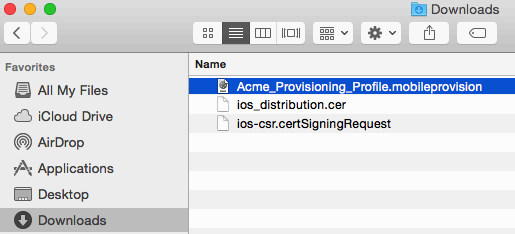
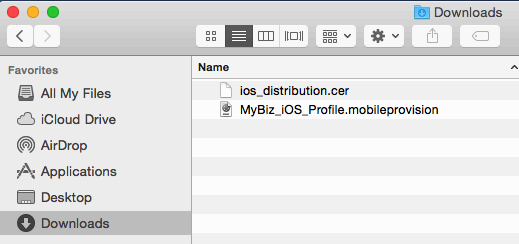
add updated images

diff --git a/admin_manual/enterprise_ios_app/publishing_ios_app_5.rst b/admin_manual/enterprise_ios_app/publishing_ios_app_5.rst
@@ -54,7 +54,6 @@ and click **Add Another**. On the following screen select **Ad Hoc** and click
 **Continue**.
 
 .. figure:: ../images/cert-35.png
-   :scale: 80%
   
 This time select the Select the **.DocumentProvider** app ID and click 
 **Continue**.
@@ -65,20 +64,17 @@ Select the certificate that you created at the beginning of this process and
 click **Continue**.
 
 .. figure:: ../images/cert-43.png
-   :scale: 80%
   
 Select the devices that you want to install and test your app on, then click 
 **Continue**. These must be the same devices you selected for the first 
-provisioning profile, and they will be selected by default.
+provisioning profile.
 
 .. figure:: ../images/cert-39.png
-   :scale: 80%
    
-Give this provisioning profile the same **bundleID** as your first profile 
+Give this provisioning profile the same name as your first profile, 
 plus **.DocumentProvider** and click **Generate**.   
 
 .. figure:: ../images/cert-44.png
-   :scale: 80%
   
 Just like the first provisioning profile, download it to your Mac computer, and 
 then double-click to install it in Xcode.
@@ -91,7 +87,6 @@ and click **Add Another**. On the following screen select **Ad Hoc** and click
 **Continue**.
 
 .. figure:: ../images/cert-35.png
-   :scale: 80%
 
 This time select the Select the **.DocumentProviderFileProvider** app ID and 
 click **Continue**.
@@ -102,26 +97,25 @@ Select the certificate that you created at the beginning of this process and
 click **Continue**.
 
 .. figure:: ../images/cert-43.png
-   :scale: 80%
+
+Select the devices that you want to install and test your app on, then click 
+**Continue**. These must be the same devices you selected for the first 
+provisioning profile.
+
+.. figure:: ../images/cert-39.png
    
-Give this provisioning profile the same **bundleID** as your first profile 
+Give this provisioning profile the same name as your first profile 
 plus **.DocumentProviderFileProvider** and click **Generate**. There is a 
 50-character limit, but don't worry about counting characters because it will 
 be automatically truncated if you go over.  
 
 .. figure:: ../images/cert-47.png
-   :scale: 80%
       
 Download it to your Mac computer, and then double-click to install it in Xcode. 
-You should now see all of your provisioning profiles in your Download folder:
-
-.. figure:: ../images/cert-51.png
-   :scale: 80%
-   
-And listed in your "iOS Provisioning Profiles".
+You should now see all of your provisioning profiles listed in your "iOS 
+Provisioning Profiles".
 
 .. figure:: ../images/cert-52.png
-   :scale: 80%
 
 You have one more certificate to create, and that is your P12 certificate.   
   
